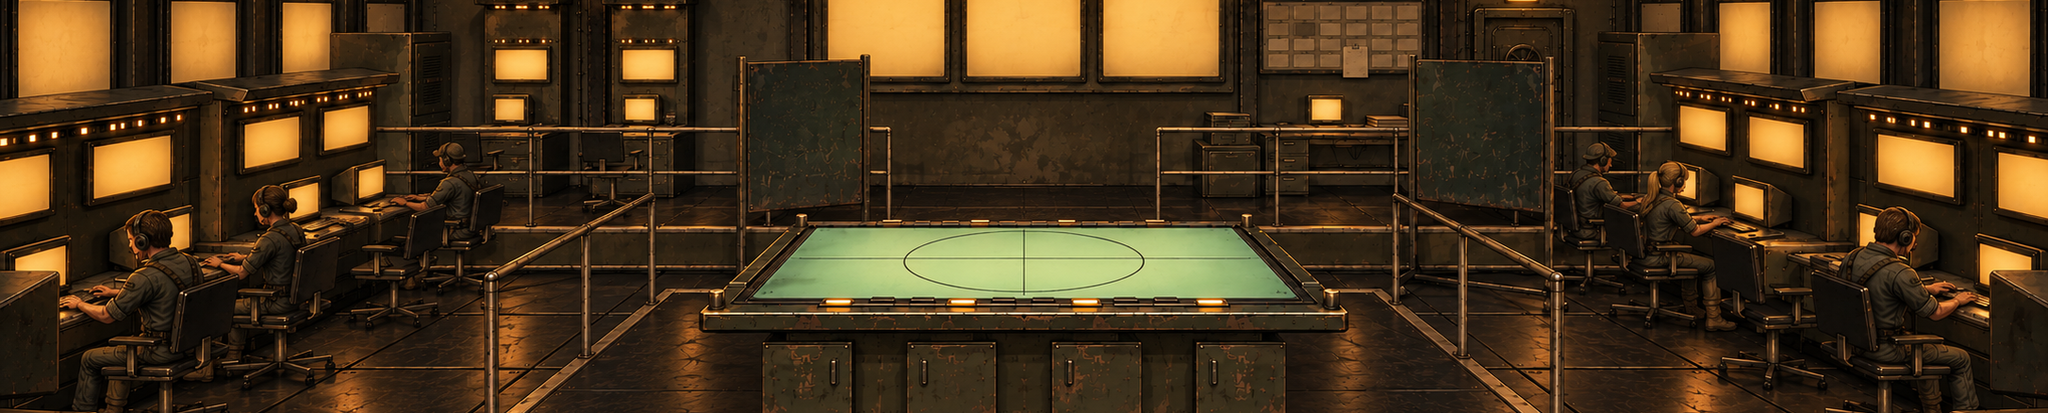
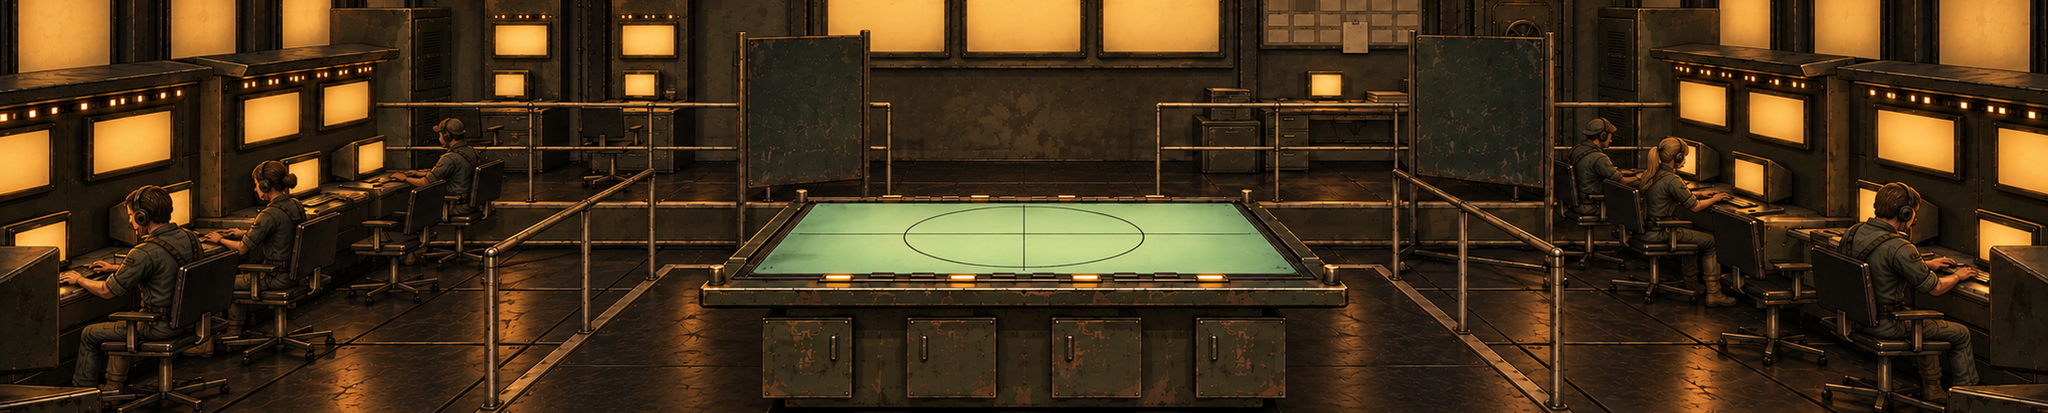
HQ: take the caption off the deck scene; rating and assessment in a strip below
The mercenary rating and Castle's daily assessment move out of the bar laid
over the scene's foot into the row under it, replacing the board title and its
filler sentence. With nothing covering the scene, the packed band moves down
(rows 180-618) to show the plot table to its base and the commander's feet.
The hq-command-deck review sheets are untracked and ignored.

diff --git a/art-source/hq-command-deck/pack.py b/art-source/hq-command-deck/pack.py
@@ -2,9 +2,9 @@
 
 Run from the repository root:  python -I art-source/hq-command-deck/pack.py
 
-The banner shows a wide band of the 3:1 plate. The band is chosen so the plotting table
-sits wholly above the caption strip the screen lays over the banner's foot, and the
-heads on the rear tier sit below its top. Figures are packed as separate sprites, each
+The banner shows a wide band of the 3:1 plate, with nothing laid over it. The band is
+chosen to keep every head (the quartermaster's, at guide row 206, is highest) inside
+its top and to reach as far down the deck as that allows. Figures are packed as separate sprites, each
 already cut by its stand's matte, so the screen can light one station's people without
 redrawing the scene. Station rectangles and overlay anchors come from the Blender layout
 and the placed cards, never from measuring the painting, so a repaint registered on the
@@ -29,9 +29,9 @@ import compose  # noqa: E402  (beside this script; run with -I)
 REPO = HERE.parent.parent
 SPRITES = "graphics/ui/hq-command-deck"
 OUT_JSON = REPO / "mod/data/ui/hq-command-deck.json"
-# Rows of the guide frame the banner shows: the caption covers the bottom 72 of 300
-# banner pixels, which must start below the plot table's near rim (row 487).
-BAND_TOP, BAND_BOTTOM = 154, 592
+# Rows of the guide frame the banner shows, about 5:1 at full width: the commander's
+# feet (row 583) fall inside it; Sabine, nearest the camera, is cut at the shin.
+BAND_TOP, BAND_BOTTOM = 180, 618
 PACKED_WIDTH = 2048
 
 # Stations in screen order. Later stations draw over earlier ones where they overlap,

diff --git a/src/main/java/com/dillon/starsectormarines/ops/CompanyHqViewModel.java b/src/main/java/com/dillon/starsectormarines/ops/CompanyHqViewModel.java
@@ -221,8 +221,6 @@ final class CompanyHqViewModel {
         props.put("ratingScore", Strings.get("openingCompanyHqMrbCredibility2"));
         props.put("assessment", Strings.get("openingCompanyHqRecognizedOnTheMrbFileOfReady"));
         props.put("financeHeader", Strings.get("openingCompanyHqCompanyFinance"));
-        props.put("boardHeader", Strings.get("openingCompanyHqSignalsIntelligenceCompanyNet"));
-        props.put("boardIntro", Strings.get("openingCompanyHqFleetDispatchSectorRelaysAndOpenBand"));
         props.put("obligationsHeader", Strings.get("openingCompanyHqActiveObligations"));
         props.put("runway", Strings.get("openingCompanyHqMonths"));
         props.put("runwayCaption", Strings.get("openingCompanyHqPayrollRunwayAgainstLastMonthSUpkeep"));
@@ -251,8 +249,6 @@ final class CompanyHqViewModel {
         props.put("assessmentHeader", Strings.get("companyHqAssessmentHeader"));
         props.put("ratingHeader", Strings.get("companyHqRatingHeader"));
         props.put("financeHeader", Strings.get("companyHqFinanceHeader"));
-        props.put("boardHeader", Strings.get("companyHqBoardHeader"));
-        props.put("boardIntro", Strings.get("companyHqBoardIntro"));
         props.put("obligationsHeader", Strings.get("companyHqClocksHeader"));
         props.put("runwayCaption", Strings.get("companyHqRunwayCaption"));
         return props;

diff --git a/src/main/java/com/dillon/starsectormarines/ops/CompanyHqScreen.java b/src/main/java/com/dillon/starsectormarines/ops/CompanyHqScreen.java
@@ -130,7 +130,7 @@ public final class CompanyHqScreen implements Screen {
                 "company-hq-root", "marine-ops-page-nav", "page-nav-return",
                 "page-nav-hq", "page-nav-barracks",
                 "page-nav-mech-lab", "page-nav-boats",
-                "company-hq-deck", "company-hq-deck-caption",
+                "company-hq-deck", "company-hq-board-heading",
                 "company-hq-main", "company-hq-finance", "company-hq-board",
                 "company-hq-obligation-list", "company-hq-news-list")) {
             component.requireElement(id);

diff --git a/src/main/java/com/dillon/starsectormarines/ops/CompanyIntelTerminal.java b/src/main/java/com/dillon/starsectormarines/ops/CompanyIntelTerminal.java
@@ -150,7 +150,7 @@ final class CompanyIntelTerminal {
             case "castle" -> {
                 UiElement guide = instance.requireElement("company-hq-opening-guide");
                 if (!guide.hasClass("opening-guide-hidden")) focusFirst(guide);
-                pulse("company-hq-deck-caption");
+                pulse("company-hq-board-heading");
             }
             case "finance" -> pulse("company-hq-finance");
             case "force" -> openForce.run();

diff --git a/roadmap/company-view/stories/hq-command-deck.md b/roadmap/company-view/stories/hq-command-deck.md
@@ -1,8 +1,8 @@
 # HQ command deck
 
-Status: IN PROGRESS — banner, caption and station hotspots shipped on HQ; edge-case evidence and the alert plate remain
+Status: IN PROGRESS — banner, command strip and station hotspots shipped on HQ; edge-case evidence and the alert plate remain
 Written: 2026-10-16
-Updated: 2026-10-18 — sidebar and notice rows removed; banner full width, finance moved under the scene.
+Updated: 2026-10-18 — sidebar, notice rows and scene caption removed; rating and assessment in a strip under the scene.
 
 Read `company-view-nouns.md` (Company HQ) first.
 
@@ -49,8 +49,9 @@ where things live without becoming the only way to reach them.
 ## Layout at 1920x1080 / 100%
 
 The HQ has no sidebar. Under the page nav, one full-width board holds the command
-deck banner (372px) and, below its heading, three columns: company finance,
-active obligations, and the news column.
+deck banner (372px), the command strip, and three columns: company finance,
+active obligations, and the news column. Nothing is laid over the scene except the
+station hotspots, which are invisible until pointed at.
 
 ```
 +--------------------------------------------------------------------------------+
@@ -58,11 +59,9 @@ active obligations, and the news column.
 +--------------------------------------------------------------------------------+
 | COMMAND DECK BANNER (full width x 372)                                          |
 |  [comms]  [plot table + commander]  [Castle]  [quartermaster]  [Sabine]         |
-|  +--------------------------------------------------------------------------+   |
-|  | RATING | BRIDGE ADJUTANT // DAILY ASSESSMENT                              |   |  <- 72px caption
-|  +--------------------------------------------------------------------------+   |
 +--------------------------------------------------------------------------------+
-| board heading                                                                   |
+| RATING  RECOGNIZED  +24 | BRIDGE ADJUTANT // DAILY ASSESSMENT        [debug]    |  <- command strip
++--------------------------------------------------------------------------------+
 | FINANCE 260 | OBLIGATIONS 260      | source windows / dossier / archive         |
 |             |  waiting letters     |                                            |
 +--------------------------------------------------------------------------------+
@@ -75,10 +74,12 @@ active obligations, and the news column.
 - Letters awaiting an answer (the auxiliary warrant, the Latchkey custody
   agreements) sit at the head of the obligations column, since they are
   decisions owed.
-- **Caption strip:** the bottom 72px of the banner, over a flat dark scrim. The
-  packed band is chosen so the plotting table's near rim sits above it. Left: `ratingHeader` / rating / score.
-  Right: Castle's name plate and the daily `assessment` text. The plate's
-  lower-right is painted quiet for this.
+- **Command strip:** the row under the banner (`company-hq-board-heading`) holds the
+  mercenary rating and Castle's daily assessment, with the debug-missions button at
+  its end in debug builds. It replaced a caption laid over the scene's foot, which
+  covered the table and the nearest figures, and the board's title and intro
+  sentence, which the source windows below make redundant. The packed band is chosen
+  to keep every head inside its top and reach as far down the deck as that allows.
 - **Crop (decided):** the pack writes a ~5:1 band of the 3:1 master, and the banner
   is a canvas that **cover-fits** it: the document never scales up, so the banner's
   aspect varies with resolution, and a box wider than the band loses ceiling and
@@ -97,7 +98,7 @@ panel when used.
 | --- | --- | --- |
 | Comms bank, two officers | COMMS // INTEL | Focuses the transmission archive and pulses the source windows. |
 | Chart table, commander | SITUATION BOARD | Focuses the first obligation; with no obligations, pulses the board heading. |
-| Castle | CASTLE // ADJUTANT | Pulses the assessment caption; where the opening guide is active, focuses its next control. |
+| Castle | CASTLE // ADJUTANT | Pulses the command strip; where the opening guide is active, focuses its next control. |
 | Quartermaster's ledger | FINANCE & STANDING | Pulses the finance column. |
 | Sabine Hale | FORCE // BARRACKS | Opens Barracks, where the force is. |
 
@@ -119,8 +120,8 @@ carry the urgency too. Optional for the first cut.
 1. The deck plate matches the prompt's station order inside the centre band; each
    figure card has true transparency, matches the plate's lighting, and Castle
    matches her portrait.
-2. HQ at 1920x1080 / 100% shows the banner with caption, no network canvas and no
-   assessment strip; rating and assessment text are fully readable over the scrim.
+2. HQ at 1920x1080 / 100% shows the banner unobstructed, with rating and assessment
+   fully readable in the command strip beneath it.
 3. Every hotspot is reachable by keyboard and pointer, shows its label, and points
    at a panel that is visible at the same time.
 4. Long assessment text, no employers, no obligations and an overdue obligation all
